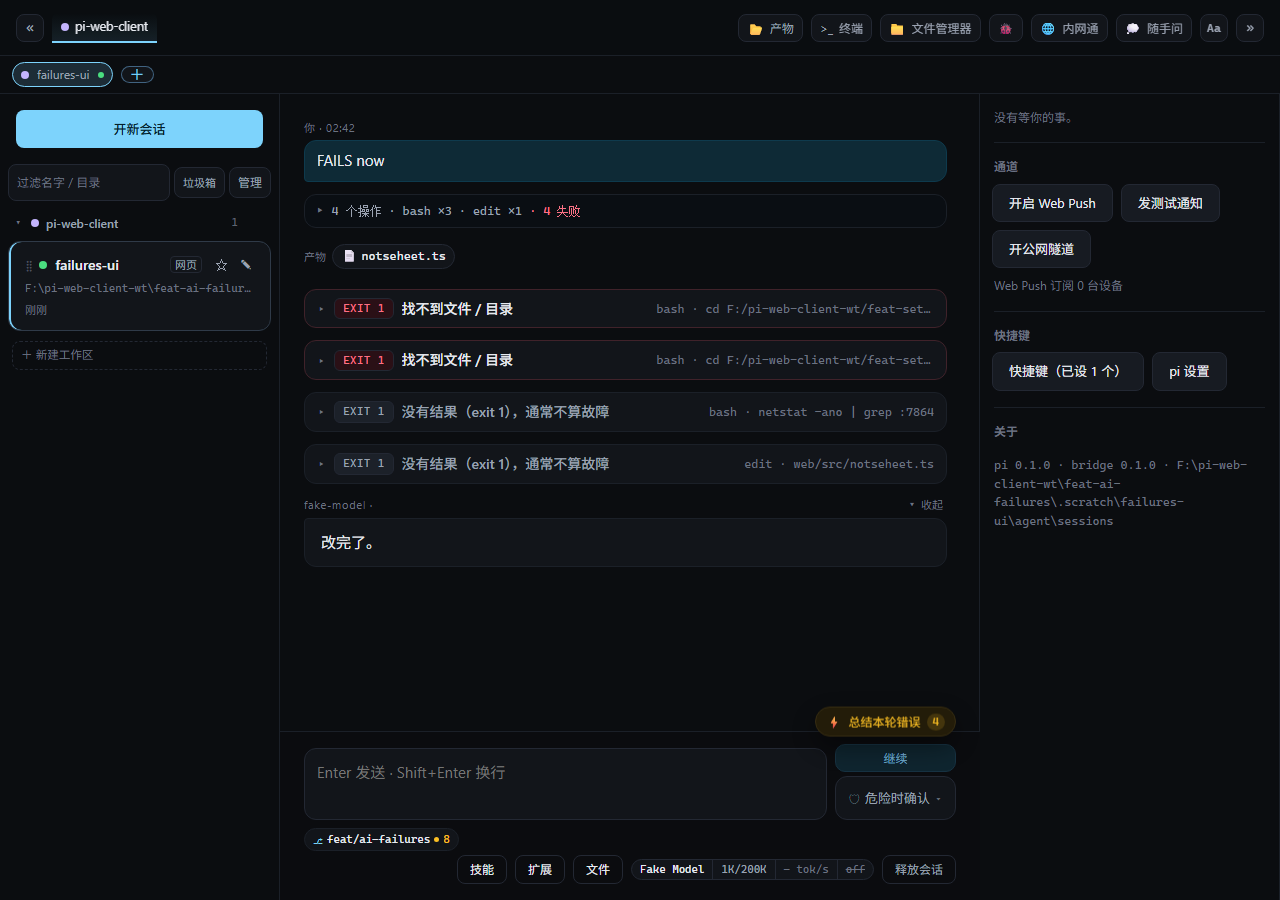
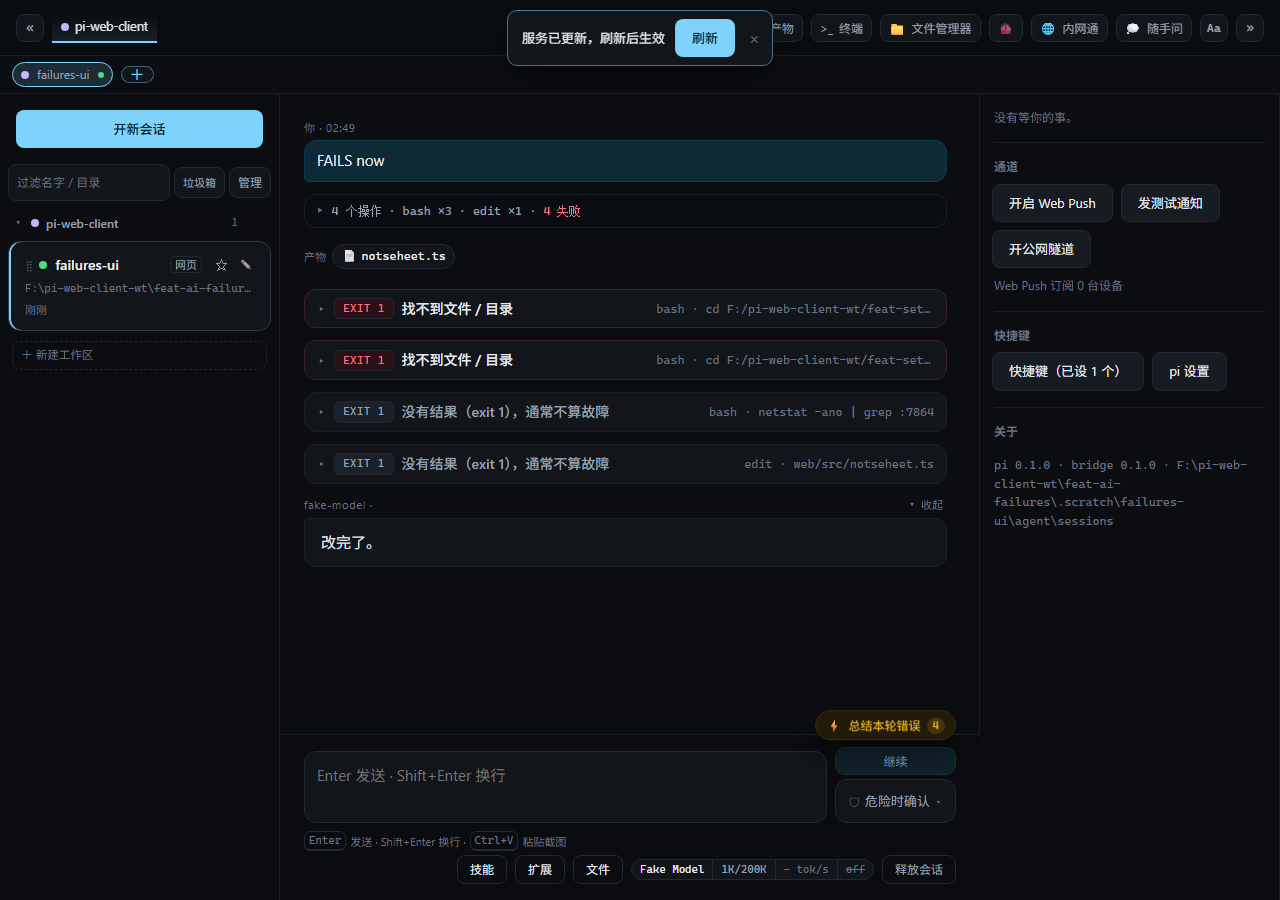
style: 账本左栏改成卡片密度（用户选 B），明细改成证据卡
- 一类一张卡：标题 + 次数大字 + 工具/最近命令；取消排名列
- 右栏每次发生一张证据卡（时间/会话/exit + 命令 + 输出首行），不挤表格
- 去掉不再使用的表头词条（结果/时间/命令）

diff --git a/web/src/styles.css b/web/src/styles.css
@@ -2912,21 +2912,20 @@ body.row-resizing { cursor: ns-resize; user-select: none; }
 .fail-list { overflow-y: auto; padding: 0 8px 8px; display: flex; flex-direction: column; gap: 3px; }
 .fail-empty { padding: 14px 10px; color: var(--faint); font-size: 12px; text-align: center; line-height: 1.6; }
 
-.fail-row {
-  display: grid; grid-template-columns: 16px minmax(0, 1fr) auto; gap: 8px; align-items: center;
-  padding: 7px 8px; border-radius: 8px; border: 1px solid transparent; cursor: pointer;
+.fail-card {
+  display: flex; flex-direction: column; gap: 4px;
+  padding: 9px 10px; border-radius: 10px; border: 1px solid transparent; cursor: pointer;
 }
-.fail-row:hover { background: var(--panel-2); }
-.fail-row.on { border-color: var(--accent-dim); background: var(--accent-bg); }
-.fail-row:focus-visible { outline: 2px solid var(--accent); outline-offset: -2px; }
-.fail-rank { font: 10px/1 var(--mono); color: var(--faint); text-align: right; }
-.fail-main { min-width: 0; }
-.fail-title { font-size: 12.5px; font-weight: 500; color: var(--text); overflow: hidden; text-overflow: ellipsis; white-space: nowrap; }
-.fail-sub { display: flex; gap: 8px; margin-top: 2px; font: 11px/1.35 var(--mono); color: var(--faint); }
-.fail-sub .cmd { flex: 1; min-width: 0; overflow: hidden; text-overflow: ellipsis; white-space: nowrap; }
-.fail-sub .when { flex: none; margin-left: auto; }
-.fail-count { font: 12px/1 var(--mono); color: var(--dim); }
-.fail-count.hot { color: var(--warn); font-weight: 600; }
+.fail-card:hover { background: var(--panel-2); }
+.fail-card.on { border-color: var(--accent-dim); background: var(--accent-bg); }
+.fail-card:focus-visible { outline: 2px solid var(--accent); outline-offset: -2px; }
+.fail-card-top { display: flex; align-items: baseline; gap: 8px; min-width: 0; }
+.fail-card-title { flex: 1; min-width: 0; font-size: 13px; font-weight: 500; color: var(--text); overflow: hidden; text-overflow: ellipsis; white-space: nowrap; }
+.fail-card-n { flex: none; font: 14px/1 var(--mono); color: var(--faint); }
+.fail-card-n.hot { color: var(--warn); font-weight: 600; }
+.fail-card-sub { display: flex; gap: 8px; font: 11px/1.35 var(--mono); color: var(--faint); }
+.fail-card-sub .cmd { flex: 1; min-width: 0; overflow: hidden; text-overflow: ellipsis; white-space: nowrap; }
+.fail-card-sub .when { flex: none; margin-left: auto; }
 
 .fail-fold { border-top: 1px dashed var(--line-soft); margin-top: 4px; padding-top: 2px; }
 .fail-fold > summary {
@@ -2962,21 +2961,18 @@ body.row-resizing { cursor: ns-resize; user-select: none; }
 .fail-actions .btn { padding: 6px 10px; font-size: 12px; }
 .fail-sechead { margin-top: 4px; font: 11px/1.4 var(--mono); color: var(--faint); }
 
-.fail-occ { border: 1px solid var(--line-soft); border-radius: 8px; overflow: hidden; }
-.fail-occ-head, .fail-occ-row {
-  display: grid; grid-template-columns: 58px 118px minmax(0, 1fr) 58px; gap: 8px;
-  padding: 6px 10px; align-items: baseline; font: 11px/1.5 var(--mono);
+.fail-occ { display: flex; flex-direction: column; gap: 6px; }
+.fail-ev {
+  display: flex; flex-direction: column; gap: 3px; padding: 8px 10px;
+  border: 1px solid var(--line-soft); border-radius: 8px; background: var(--sunken);
 }
-.fail-occ-head { color: var(--faint); border-bottom: 1px solid var(--line-soft); }
-.fail-occ-row { border-top: 1px solid var(--line-soft); }
-.fail-occ-row .sess { overflow: hidden; text-overflow: ellipsis; white-space: nowrap; color: var(--accent); }
-.fail-occ-row .cmd { min-width: 0; overflow: hidden; text-overflow: ellipsis; white-space: nowrap; color: var(--dim); }
-.fail-occ-row .right { text-align: right; color: var(--faint); }
-.fail-occ-row .right.bad { color: var(--danger); }
-.fail-occ-out {
-  padding: 0 10px 8px; font: 11px/1.5 var(--mono); color: var(--faint);
-  overflow: hidden; text-overflow: ellipsis; white-space: nowrap;
-}
+.fail-ev-head { display: flex; gap: 8px; align-items: baseline; font: 11px/1.4 var(--mono); color: var(--faint); }
+.fail-ev-head .when { flex: none; }
+.fail-ev-head .sess { min-width: 0; overflow: hidden; text-overflow: ellipsis; white-space: nowrap; color: var(--accent); }
+.fail-ev-head .exit { flex: none; margin-left: auto; }
+.fail-ev-head .exit.bad { color: var(--danger); }
+.fail-ev-cmd { font: 12px/1.5 var(--mono); color: var(--text); word-break: break-all; }
+.fail-ev-out { font: 11px/1.5 var(--mono); color: var(--faint); overflow: hidden; text-overflow: ellipsis; white-space: nowrap; }
 .fail-more { align-self: flex-start; }
 
 .fail-foot { grid-column: 1 / -1; display: flex; gap: 8px; align-items: center; padding: 8px 12px; border-top: 1px solid var(--line-soft); }

diff --git a/web/src/failpanel.ts b/web/src/failpanel.ts
@@ -131,7 +131,7 @@ export class FailPanel {
     const ignored = rows.filter((e) => entryState(e) === "ignored");
     const abort = rows.filter((e) => entryState(e) === "abort");
     const nodes: HTMLElement[] = [];
-    open.forEach((e, i) => nodes.push(this.row(e, i + 1)));
+    open.forEach((e) => nodes.push(this.card(e)));
     if (!open.length) nodes.push(el("div", "fail-empty", tr("没有待修的错误。")));
     const fold = (label: string, list: FailEntry[], kind: string) => {
       if (!list.length) return;
@@ -140,7 +140,7 @@ export class FailPanel {
       const n = el("span", "n", String(list.reduce((a, e) => a + e.count, 0)));
       sum.append(n);
       d.append(sum);
-      for (const e of list) d.append(this.row(e, 0));
+      for (const e of list) d.append(this.card(e));
       nodes.push(d);
     };
     fold(tr("已修复"), fixed, "fixed");
@@ -149,30 +149,31 @@ export class FailPanel {
     this.listEl.replaceChildren(...nodes);
   }
 
-  private row(e: FailEntry, rank: number): HTMLElement {
-    const row = el("div", `fail-row${e.key === this.sel ? " on" : ""}`);
-    row.tabIndex = 0;
-    row.setAttribute("role", "button");
-    const main = el("div", "fail-main");
-    main.append(el("div", "fail-title", entryTitle(e)));
-    const sub = el("div", "fail-sub");
-    sub.append(el("span", "", e.tool), el("span", "cmd", e.occ[0]?.cmd ?? ""), el("span", "when", clock(e.last)));
-    main.append(sub);
+  /** 一张卡 = 一类：标题、次数（大字在右）、工具与最近一次的命令。密度 B，一屏 4–5 张。 */
+  private card(e: FailEntry): HTMLElement {
+    const card = el("div", `fail-card${e.key === this.sel ? " on" : ""}`);
+    card.tabIndex = 0;
+    card.setAttribute("role", "button");
+    const top = el("div", "fail-card-top");
+    top.append(el("span", "fail-card-title", entryTitle(e)));
     const state = entryState(e);
-    row.append(el("span", "fail-rank", rank ? String(rank) : ""), main, el("span", `fail-count${state === "open" ? " hot" : ""}`, String(e.count)));
-    row.onclick = () => {
+    top.append(el("span", `fail-card-n${state === "open" ? " hot" : ""}`, String(e.count)));
+    const sub = el("div", "fail-card-sub");
+    sub.append(el("span", "", e.tool), el("span", "cmd", e.occ[0]?.cmd ?? ""), el("span", "when", clock(e.last)));
+    card.append(top, sub);
+    card.onclick = () => {
       this.sel = e.key;
       this.paintList();
       this.paintDetail();
     };
-    row.onkeydown = (ev) => {
-      if (ev.target !== row) return;
+    card.onkeydown = (ev) => {
+      if (ev.target !== card) return;
       if (ev.key === "Enter" || ev.key === " ") {
         ev.preventDefault();
-        row.click();
+        card.click();
       }
     };
-    return row;
+    return card;
   }
 
   private paintDetail(): void {
@@ -217,20 +218,22 @@ export class FailPanel {
     this.detailEl.replaceChildren(...parts);
   }
 
+  /** 每次发生一张证据卡：谁、什么时候、跑的命令、第一行输出、exit。表格排不下长命令。 */
   private occurrences(e: FailEntry, n: number): HTMLElement {
     const box = el("div", "fail-occ");
-    const head = el("div", "fail-occ-head");
-    head.append(el("span", "", tr("时间")), el("span", "", tr("会话")), el("span", "cmd", tr("命令")), el("span", "right", tr("结果")));
-    box.append(head);
     if (!e.occ.length) box.append(el("div", "fail-empty", tr("没有留下明细。")));
     for (const o of e.occ.slice(0, n)) {
-      const row = el("div", "fail-occ-row");
-      const t = el("span", "", clock(o.at));
+      const ev = el("div", "fail-ev");
+      const head = el("div", "fail-ev-head");
+      const t = el("span", "when", clock(o.at));
       t.title = new Date(o.at).toLocaleString();
-      row.append(t, el("span", "sess", o.name || o.sid.slice(0, 8)), el("span", "cmd", o.cmd || "—"));
-      row.append(el("span", `right ${o.exit === 0 ? "" : "bad"}`, o.exit != null ? `exit ${o.exit}` : "—"));
-      box.append(row);
-      if (o.out) box.append(el("div", "fail-occ-out", o.out));
+      head.append(t, el("span", "sess", o.name || o.sid.slice(0, 8)));
+      const exit = el("span", "exit", o.exit != null ? `exit ${o.exit}` : "—");
+      if (o.exit != null && o.exit !== 0) exit.classList.add("bad");
+      head.append(exit);
+      ev.append(head, el("div", "fail-ev-cmd", o.cmd || "—"));
+      if (o.out) ev.append(el("div", "fail-ev-out", o.out));
+      box.append(ev);
     }
     return box;
   }

diff --git a/web/src/i18n/ja.ts b/web/src/i18n/ja.ts
@@ -1467,7 +1467,6 @@ export const ja: Dict = {
   "发生过 {p1} 次 · 显示最近 {p2} 条": "{p1} 回発生 · 直近 {p2} 件を表示",
   "取消忽略": "無視を取り消す",
   "只读 · 由「⚡ 总结本轮错误」写入，同一类再犯只加次数": "読み取り専用 · 「⚡ 今回のエラーを集計」が書き込みます。同じ種類の再発は回数だけ増えます",
-  "命令": "コマンド",
   "命令不存在": "コマンドが無い",
   "命令失败": "コマンド失敗",
   "导出这份账本": "この台帳を書き出す",
@@ -1487,7 +1486,6 @@ export const ja: Dict = {
   "搜类型 / 命令 / 输出": "種類・コマンド・出力を検索",
   "撤销": "取り消す",
   "撤销「已修复」": "「修正済み」を取り消す",
-  "时间": "時刻",
   "最近 {p1} 次：": "直近 {p1} 回：",
   "最近 {p1}": "最新 {p1}",
   "权限不足": "権限が足りない",
@@ -1498,7 +1496,6 @@ export const ja: Dict = {
   "没有待修的错误。": "未対応の失敗はありません。",
   "没有留下明细。": "記録された実行はありません。",
   "没记进账本：{p1}": "台帳に記録できませんでした：{p1}",
-  "结果": "結果",
   "被中断": "中断",
   "超时": "タイムアウト",
   "路径不存在": "パスが無い",

diff --git a/web/src/i18n/en.ts b/web/src/i18n/en.ts
@@ -1467,7 +1467,6 @@ export const en: Dict = {
   "发生过 {p1} 次 · 显示最近 {p2} 条": "Happened {p1} times · showing the last {p2}",
   "取消忽略": "Un-ignore",
   "只读 · 由「⚡ 总结本轮错误」写入，同一类再犯只加次数": "Read-only · written by “⚡ Summarize this run”; a repeat of the same kind only adds to the count",
-  "命令": "Command",
   "命令不存在": "Command not found",
   "命令失败": "Command failed",
   "导出这份账本": "Export this ledger",
@@ -1487,7 +1486,6 @@ export const en: Dict = {
   "搜类型 / 命令 / 输出": "Search kind / command / output",
   "撤销": "Undo",
   "撤销「已修复」": "Mark as open again",
-  "时间": "Time",
   "最近 {p1} 次：": "Last {p1} times:",
   "最近 {p1}": "Latest {p1}",
   "权限不足": "Permission denied",
@@ -1498,7 +1496,6 @@ export const en: Dict = {
   "没有待修的错误。": "Nothing open.",
   "没有留下明细。": "No runs recorded.",
   "没记进账本：{p1}": "Couldn't write to the ledger: {p1}",
-  "结果": "Result",
   "被中断": "Interrupted",
   "超时": "Timed out",
   "路径不存在": "Path missing",

diff --git a/docs/DECISIONS.md b/docs/DECISIONS.md
@@ -2340,7 +2340,7 @@ select 14；笔记抽屉更齐，11 / 12 / 13 / 14 全有（`.note-meta-input` 1
 - **账本按工作区**（`<state>/failures/<ws>.json`），不是按会话：同一个工程的不同会话共享累计。ws 用会话 cwd 归一化后的组 id —— `workspaces.groupFor` 本来就把 worktree 并回主仓，所以五个 worktree 的错误落到一本账上。
 - **归并键 = 工具 + 类型 + 归一化签名**：`cd <path>`、`grep :<n>` 这种。同键只 `count += 1`、刷新 `last`、明细插到最前留 20 条。类型由 `classify()` 判：路径 / 命令 / 权限 / 超时 / 限流 / 上下文 / exit / 中断 / 其他。
 - **内容只读**：不进编辑器，没有「编辑」动作。能标「已修复 / 忽略 / 删除」。同一类再犯时「已修复」自动复活；「已忽略」只加次数、不吵。
-- **位置**：`🐞 bug` 面板第五个 tab「⚡ AI 出错记录」。左栏待修按次数降序（同次数最近优先），已修复 / 已忽略 / 已中断各自折叠成一节；右栏是「为什么没成 + 当时给的修法 + 每次发生的原文（时间 / 会话 / 命令 / 结果）」。
+- **位置**：`🐞 bug` 面板第五个 tab「⚡ AI 出错记录」。左栏是**卡片密度**（用户从三版样张里选的 B：一类一张卡，次数大字在右，下面一行工具 + 最近命令），待修按次数降序（同次数最近优先），已修复 / 已忽略 / 已中断各自折叠成一节；右栏是「为什么没成 + 当时给的修法 + 每次发生一张证据卡（时间 / 会话 / exit、命令、输出首行）」。
 - **交接**沿用面板里那套「交给 agent ▾」：整类 + 最近 3 次明细写进输入框（或新开会话再填），不自动发。
 - **诊断在前端跑**：一轮算不算失败、属于哪类，要 tool 参数、命令原文和当时的 intent，这些只有页面这边有（还在 live 事件里）；桥只负责存与并，所以 `failures.commit` 收到的是已经判好类的条目。
 
